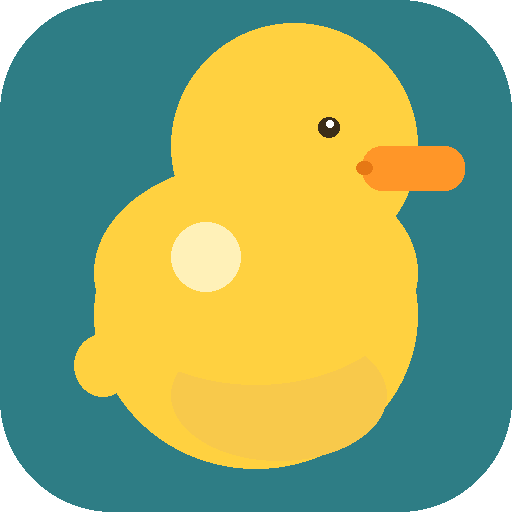
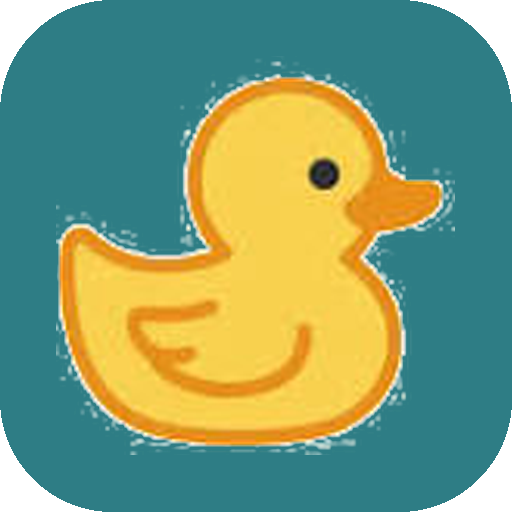
Use Stephanie's exact rubber duck reference image, mirrored to face right
Replaced the hand-drawn duck with a cutout of the reference image she
sent, background removed and mirrored horizontally so the head points
right. Same file used for the app icons (with the teal rounded-square
background) and the transparent in-app glyph.

Bumped the service worker cache version again so installed devices
pick up the new art.

Claude-Session: https://claude.ai/code/session_01S6yhaVnJ6qf3u3EmeomNiF

Changed region(s): [[0.0938, 0.0312, 0.9062, 0.9375]]

diff --git a/sw.js b/sw.js
@@ -1,6 +1,6 @@
 // Minimal shell cache so the app opens instantly and still opens with no
 // signal. It never caches data from Apps Script, only the app's own files.
-const CACHE = 'ducks-shell-v2';
+const CACHE = 'ducks-shell-v3';
 const SHELL = [
   './', './index.html', './manifest.webmanifest',
   './app/styles.css', './app/main.js', './app/store.js', './app/sync.js',
